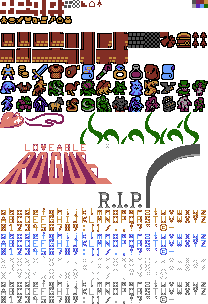
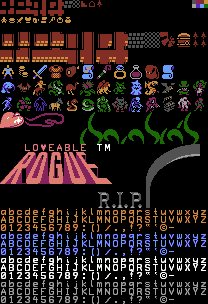
added i_curses
and blacked out the spritesheet

diff --git a/src/i_curses.h b/src/i_curses.h
@@ -1,0 +1,71 @@
+#ifndef I_CURSES_INCLUDED
+#define I_CURSES_INCLUDED
+
+#define stdscr 0
+#define wmove NOOP
+#define waddch NOOP
+#define waddnstr NOOP
+#define refresh NOOP
+#define wrefresh NOOP
+#define LINES 24
+#define wattrset 0
+#define curscr 0
+#define clear NOOP
+#define wclear NOOP
+#define COLS 80
+#define winch NOOP
+#define unctrl NOOP
+#define clearok NOOP
+#define wtouchln 0
+#define wclrtoeol 0
+#define raw NOOP
+#define printw NOOP
+#define mvwprintw NOOP
+#define mvcur NOOP
+#define keypad NOOP
+#define delwin NOOP
+#define wprintw NOOP
+#define noecho NOOP
+#define newwin NOOP
+#define leaveok NOOP
+#define nocbreak NOOP
+#define mvwin NOOP
+#define mvprintw NOOP
+#define initscr NOOP
+#define idlok NOOP
+#define wgetnstr NOOP
+#define wgetch 0
+#define werase NOOP
+#define erasechar NOOP
+#define subwin NOOP
+#define killchar NOOP
+#define isendwin NOOP
+#define halfdelay NOOP
+#define flushinp NOOP
+#define ESCDELAY 0
+#define cur_term 0
+#define baudrate NOOP
+#define mvaddch NOOP
+#define move NOOP
+#define addch NOOP
+#define standout NOOP
+#define standend NOOP
+#define mvinch NOOP
+#define mvwinch NOOP
+#define touchwin NOOP
+#define A_CHARTEXT 0
+#define inch NOOP
+#define endwin NOOP
+#define addstr NOOP
+#define waddstr NOOP
+#define clrtoeol NOOP
+#define mvaddstr NOOP
+#define getyx NOOP
+#define tcgetattr NOOP
+#define getgid NOOP
+#define getloadavg NOOP
+#define mvwaddch NOOP
+#define getmaxx NOOP
+#define getmaxy NOOP
+
+#endif

diff --git a/src/rogue.h b/src/rogue.h
@@ -35,72 +35,7 @@
 
 #define MAXINP 30
 
-#define stdscr 0
-#define wmove NOOP
-#define waddch NOOP
-#define waddnstr NOOP
-#define refresh NOOP
-#define wrefresh NOOP
-#define LINES 24
-#define wattrset 0
-#define curscr 0
-#define clear NOOP
-#define wclear NOOP
-#define COLS 80
-#define winch NOOP
-#define unctrl NOOP
-#define clearok NOOP
-#define wtouchln 0
-#define wclrtoeol 0
-#define raw NOOP
-#define printw NOOP
-#define mvwprintw NOOP
-#define mvcur NOOP
-#define keypad NOOP
-#define delwin NOOP
-#define wprintw NOOP
-#define noecho NOOP
-#define newwin NOOP
-#define leaveok NOOP
-#define nocbreak NOOP
-#define mvwin NOOP
-#define mvprintw NOOP
-#define initscr NOOP
-#define idlok NOOP
-#define wgetnstr NOOP
-#define wgetch 0
-#define werase NOOP
-#define erasechar NOOP
-#define subwin NOOP
-#define killchar NOOP
-#define isendwin NOOP
-#define halfdelay NOOP
-#define flushinp NOOP
-#define ESCDELAY 0
-#define cur_term 0
-#define baudrate NOOP
-#define mvaddch NOOP
-#define move NOOP
-#define addch NOOP
-#define standout NOOP
-#define standend NOOP
-#define mvinch NOOP
-#define mvwinch NOOP
-#define touchwin NOOP
-#define A_CHARTEXT 0
-#define inch NOOP
-#define endwin NOOP
-#define addstr NOOP
-#define waddstr NOOP
-#define clrtoeol NOOP
-#define mvaddstr NOOP
-#define getyx NOOP
-#define tcgetattr NOOP
-#define getgid NOOP
-#define getloadavg NOOP
-#define mvwaddch NOOP
-#define getmaxx NOOP
-#define getmaxy NOOP
+
 
 #define ERR 0
 

diff --git a/src/main.c b/src/main.c
@@ -16,6 +16,7 @@
 
 #include "config.h"
 #include "rogue.h"
+#include "i_curses.h"
 #include "basics.h"
 #include "ok_lib.h"
 #include "util.h"
@@ -63,8 +64,8 @@ void display_string(SDL_Renderer *renderer, SDL_Texture *sheet, font_data *fd, c
     }
 }
 
-#define TILE_WIDTH 16
-#define TILE_HEIGHT 16
+#define TILE_WIDTH 32
+#define TILE_HEIGHT 32
 
 map_str_int sprite_id_map;
 SDL_Texture *sheet;

diff --git a/src/monsters.c b/src/monsters.c
@@ -10,7 +10,7 @@
  * See the file LICENSE.TXT for full copyright and licensing information.
  */
 
-// #include <curses.h>
+#include "i_curses.h"
 #include <string.h>
 #include "rogue.h"
 #include <ctype.h>

diff --git a/src/sticks.c b/src/sticks.c
@@ -11,7 +11,7 @@
  * See the file LICENSE.TXT for full copyright and licensing information.
  */
 
-// #include <curses.h>
+#include "i_curses.h"
 #include <string.h>
 #include <ctype.h>
 #include "rogue.h"

diff --git a/src/things.c b/src/things.c
@@ -11,7 +11,7 @@
  * See the file LICENSE.TXT for full copyright and licensing information.
  */
 
-// #include <curses.h>
+#include "i_curses.h"
 #include <string.h>
 #include <ctype.h>
 #include "rogue.h"

diff --git a/src/weapons.c b/src/weapons.c
@@ -10,7 +10,7 @@
  * See the file LICENSE.TXT for full copyright and licensing information.
  */
 
-// #include <curses.h>
+#include "i_curses.h"
 #include <string.h>
 #include <ctype.h>
 #include "rogue.h"

diff --git a/src/state.c b/src/state.c
@@ -31,7 +31,7 @@
 
 #include <stdlib.h>
 #include <string.h>
-// #include <curses.h>
+#include "i_curses.h"
 #include "rogue.h"
 
 /************************************************************************/

diff --git a/src/chase.c b/src/chase.c
@@ -11,7 +11,7 @@
  */
 
 #include <stdlib.h>
-// #include <curses.h>
+#include "i_curses.h"
 #include "rogue.h"
 
 #define DRAGONSHOT  5	/* one chance in DRAGONSHOT that a dragon will flame */

diff --git a/src/new_level.c b/src/new_level.c
@@ -11,7 +11,7 @@
  * See the file LICENSE.TXT for full copyright and licensing information.
  */
 
-// #include <curses.h>
+#include "i_curses.h"
 #include <string.h>
 #include "rogue.h"
 

diff --git a/src/move.c b/src/move.c
@@ -10,7 +10,7 @@
  * See the file LICENSE.TXT for full copyright and licensing information.
  */
 
-// #include <curses.h>
+#include "i_curses.h"
 #include <ctype.h>
 #include "rogue.h"
 

diff --git a/src/potions.c b/src/potions.c
@@ -10,7 +10,7 @@
  * See the file LICENSE.TXT for full copyright and licensing information.
  */
 
-// #include <curses.h>
+#include "i_curses.h"
 #include <ctype.h>
 #include "rogue.h"
 
